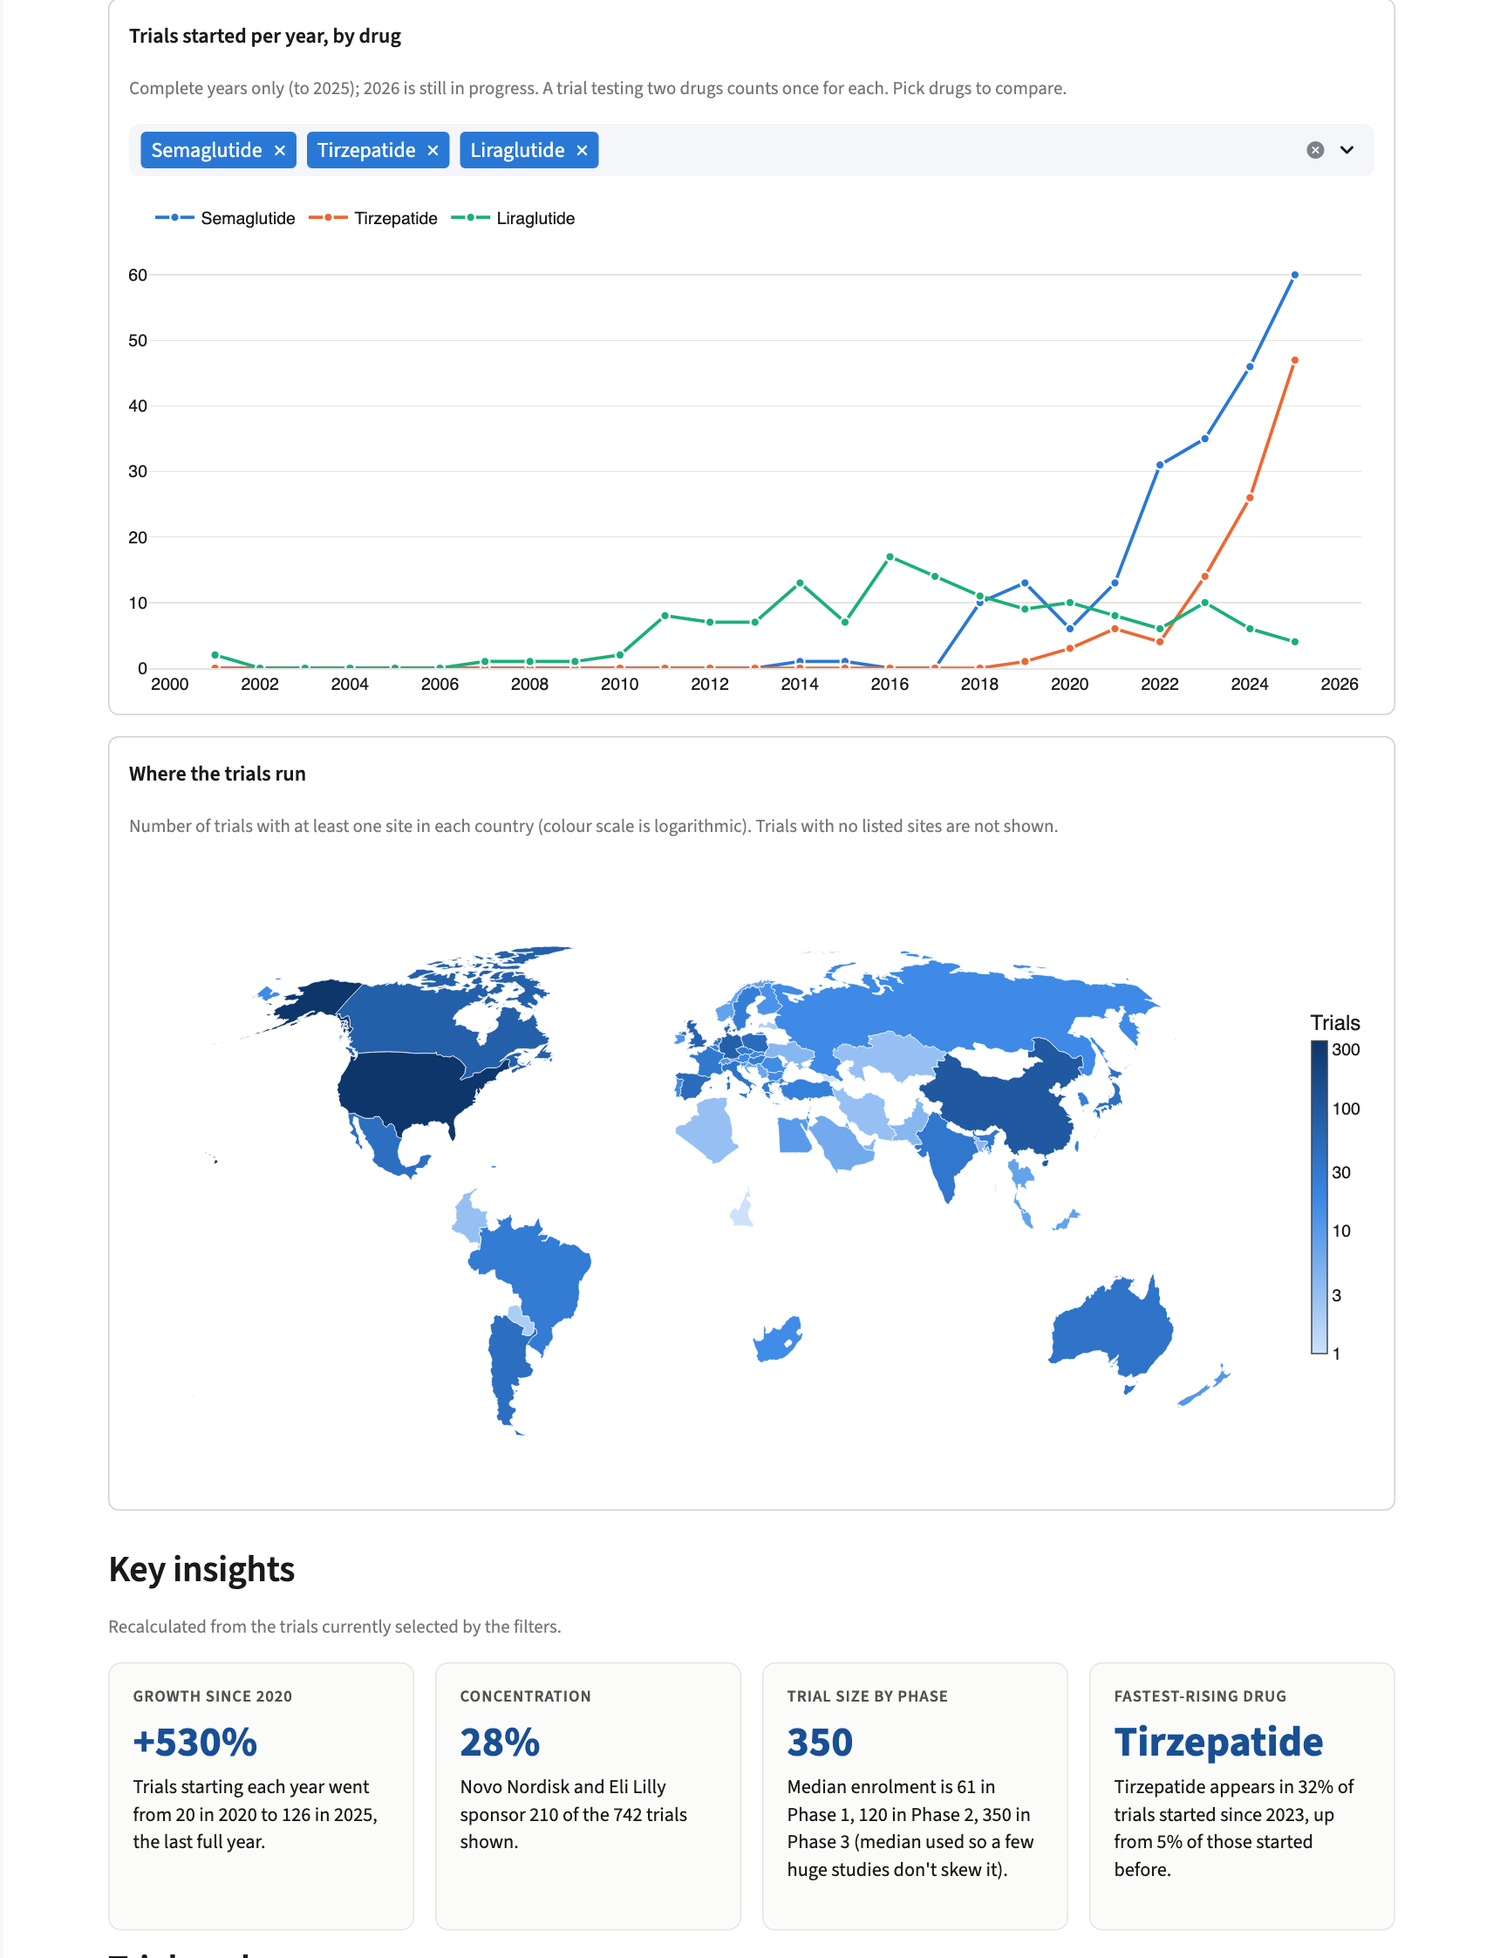
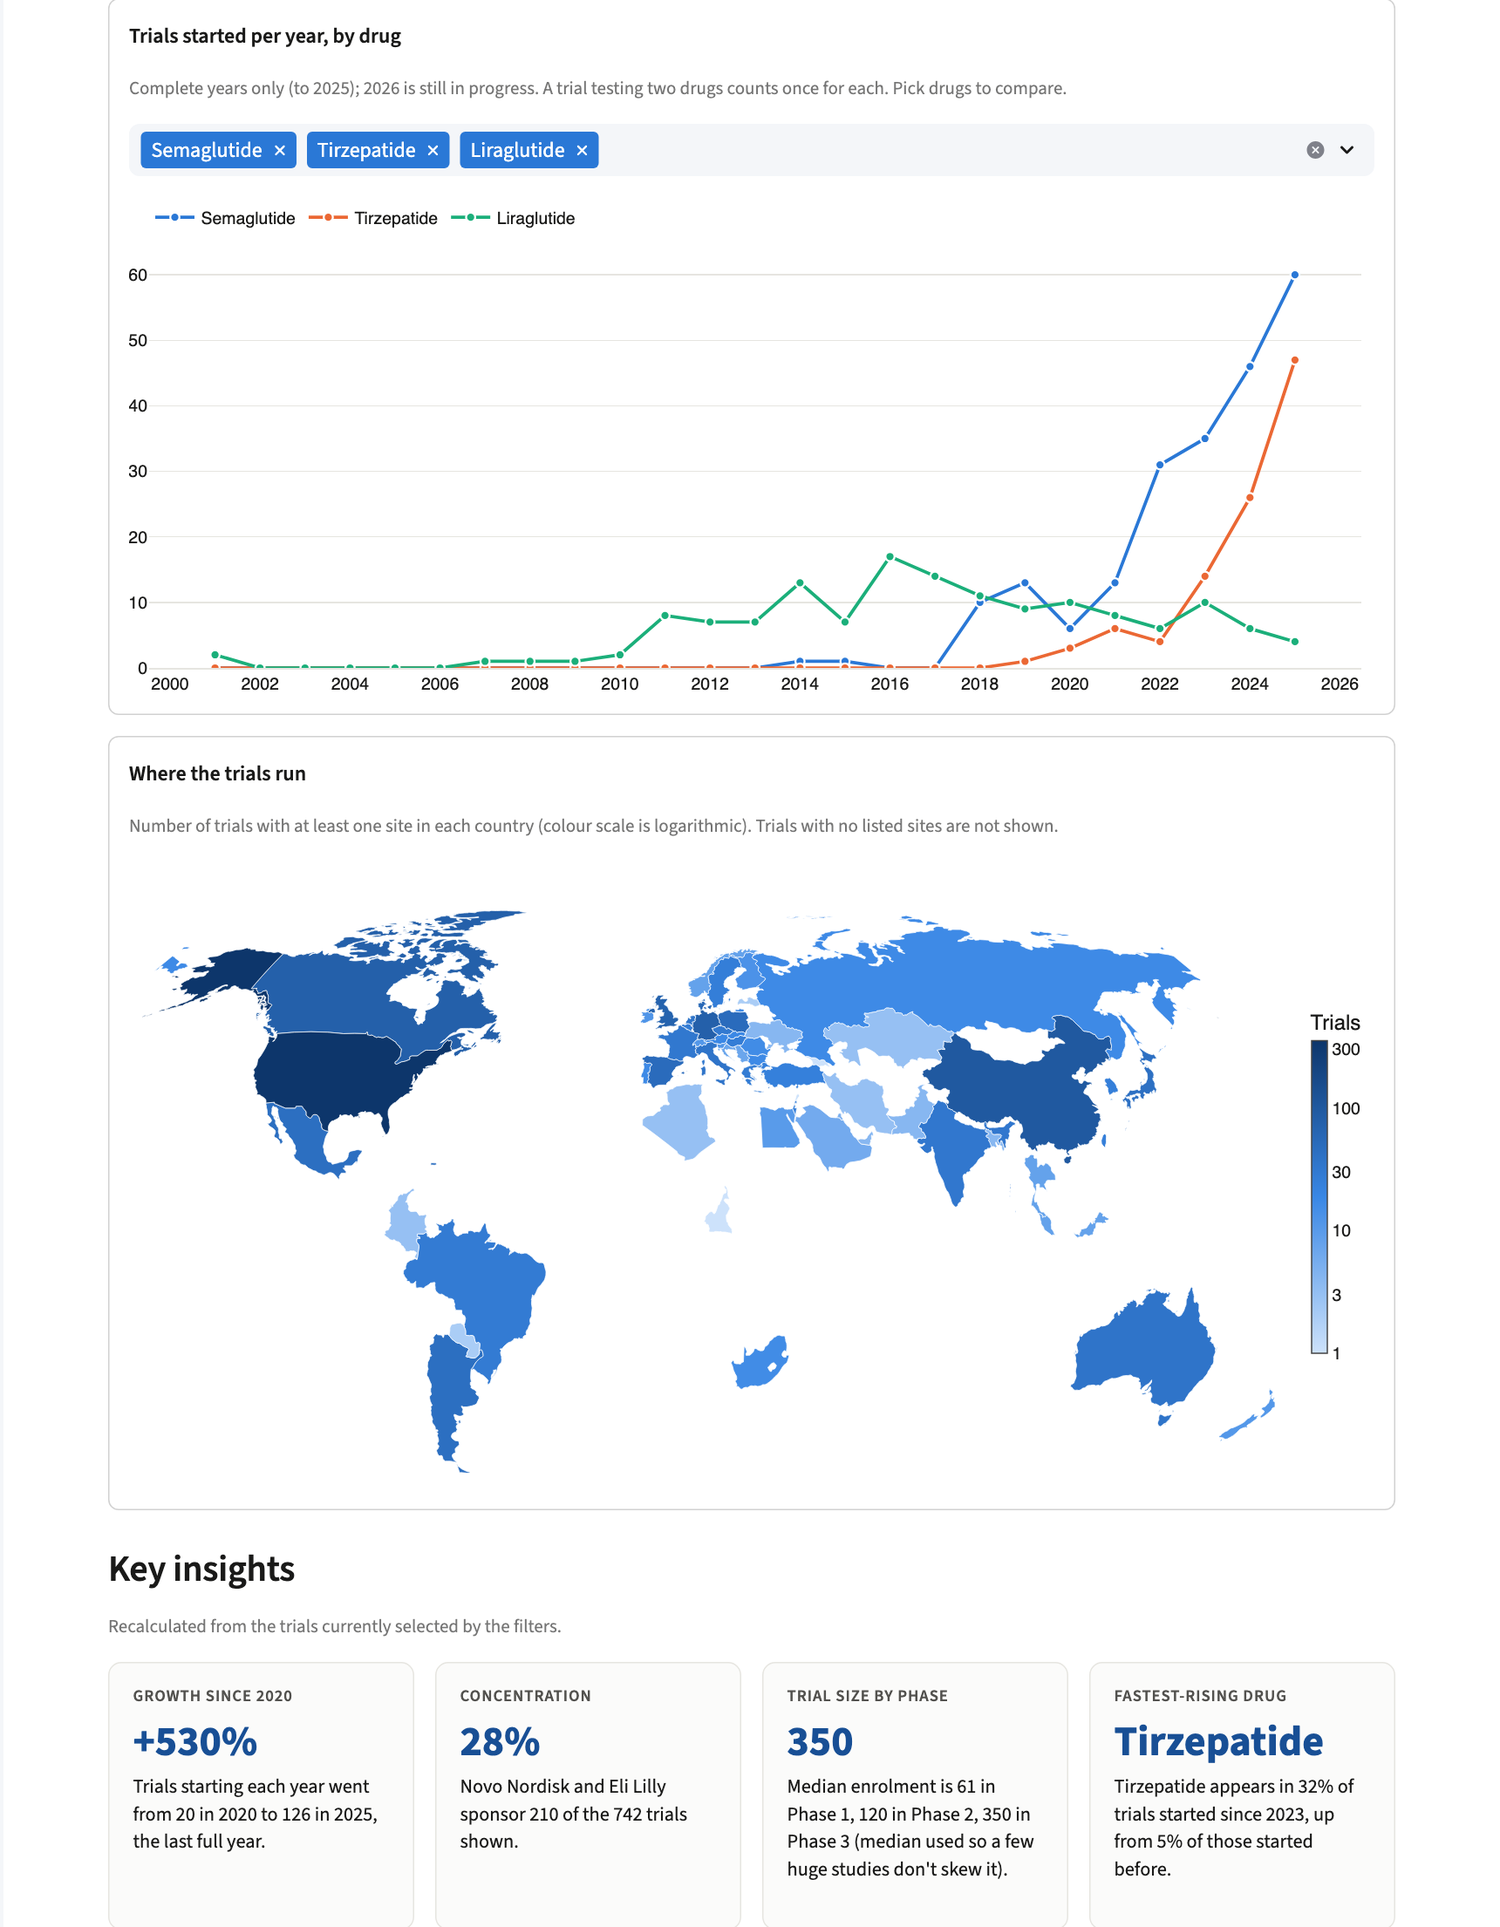
Fix world map framing on Streamlit Cloud and add live link
- Replace map fitbounds with explicit centre/scale: fitbounds renders a
  tiny Pacific-centred map on newer Plotly versions
- Pin streamlit, pandas and plotly to the tested versions
- Show participants as 2.31M so the headline never truncates
- Refresh README screenshots and add the live dashboard link

diff --git a/app.py b/app.py
@@ -120,7 +120,9 @@ if f.empty:
 countries_in_f = {c for lst in f["country_list"] for c in lst}
 c1, c2, c3, c4 = st.columns(4)
 c1.metric("Total trials", f"{len(f):,}", border=True)
-c2.metric("Total participants", f"{int(f['enrolment'].sum()):,}", border=True)
+total_people = int(f["enrolment"].sum())
+c2.metric("Total participants", f"{total_people / 1e6:.2f}M" if total_people >= 1_000_000 else f"{total_people:,}",
+          border=True)
 c3.metric("Sponsors", f"{f['sponsor'].nunique():,}", border=True)
 c4.metric("Countries", f"{len(countries_in_f):,}", border=True)
 
@@ -261,7 +263,8 @@ with st.container(border=True):
         ))
         fig.update_geos(projection_type="natural earth", showframe=False, showcoastlines=False,
                         showcountries=True, countrycolor="white", landcolor="#eceae5",
-                        showocean=False, fitbounds="locations", bgcolor="rgba(0,0,0,0)")
+                        showocean=False, bgcolor="rgba(0,0,0,0)",
+                        center=dict(lat=14, lon=8), projection_scale=1.15)
         show(fig, height=480)
 
 

diff --git a/README.md b/README.md
@@ -4,7 +4,7 @@ An interactive dashboard that analyses **742 clinical trials** of GLP-1-based ob
 
 Built with Python, pandas, Plotly and Streamlit.
 
-**Live dashboard:** LIVE_APP_URL
+**Live dashboard:** [glp1-trials.streamlit.app](https://glp1-trials.streamlit.app/)
 
 ![Dashboard overview: headline numbers, trials per year, phase, sponsors and status](docs/dashboard-overview.png)
 
